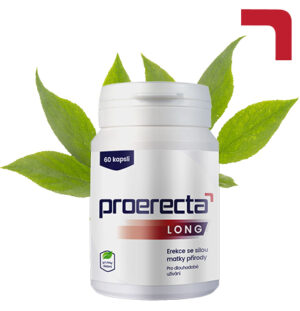
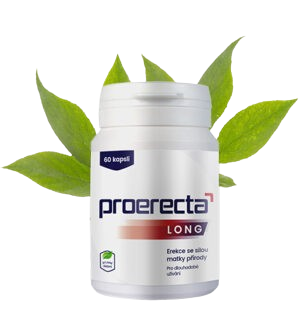
Checkpoint: Replaced the Proerecta Klasik product image with the new Proerecta Long image in the Hero section. Also shifted the entire product group container further to the left (from -220px to -280px on desktop) to improve the composition.

diff --git a/client/src/components/HeroSection.tsx b/client/src/components/HeroSection.tsx
@@ -236,7 +236,7 @@ export function HeroSection() {
               </div>
 
               {/* Product Image (Overlay - Left - Small Shot) */}
-              <div className="absolute bottom-0 left-[-80px] md:left-[-220px] w-[350px] md:w-[550px] z-20 transform translate-y-10 flex items-end">
+              <div className="absolute bottom-0 left-[-100px] md:left-[-280px] w-[350px] md:w-[550px] z-20 transform translate-y-10 flex items-end">
                 <div className="w-[30%] relative z-10">
                   <img 
                     src="/images/proerecta-shot-trans.png" 
@@ -244,11 +244,11 @@ export function HeroSection() {
                     className="w-full h-auto drop-shadow-2xl"
                   />
                 </div>
-                {/* Klasik Product (Much Larger, next to Shot) */}
+                {/* Long Product (Much Larger, next to Shot) */}
                 <div className="w-[70%] -ml-12 mb-4 relative z-0">
                   <img 
-                    src="/images/proerecta-klasik-small.png" 
-                    alt="Proerecta Klasik" 
+                    src="/images/proerecta-long-new.png" 
+                    alt="Proerecta Long" 
                     className="w-full h-auto drop-shadow-xl"
                   />
                 </div>
